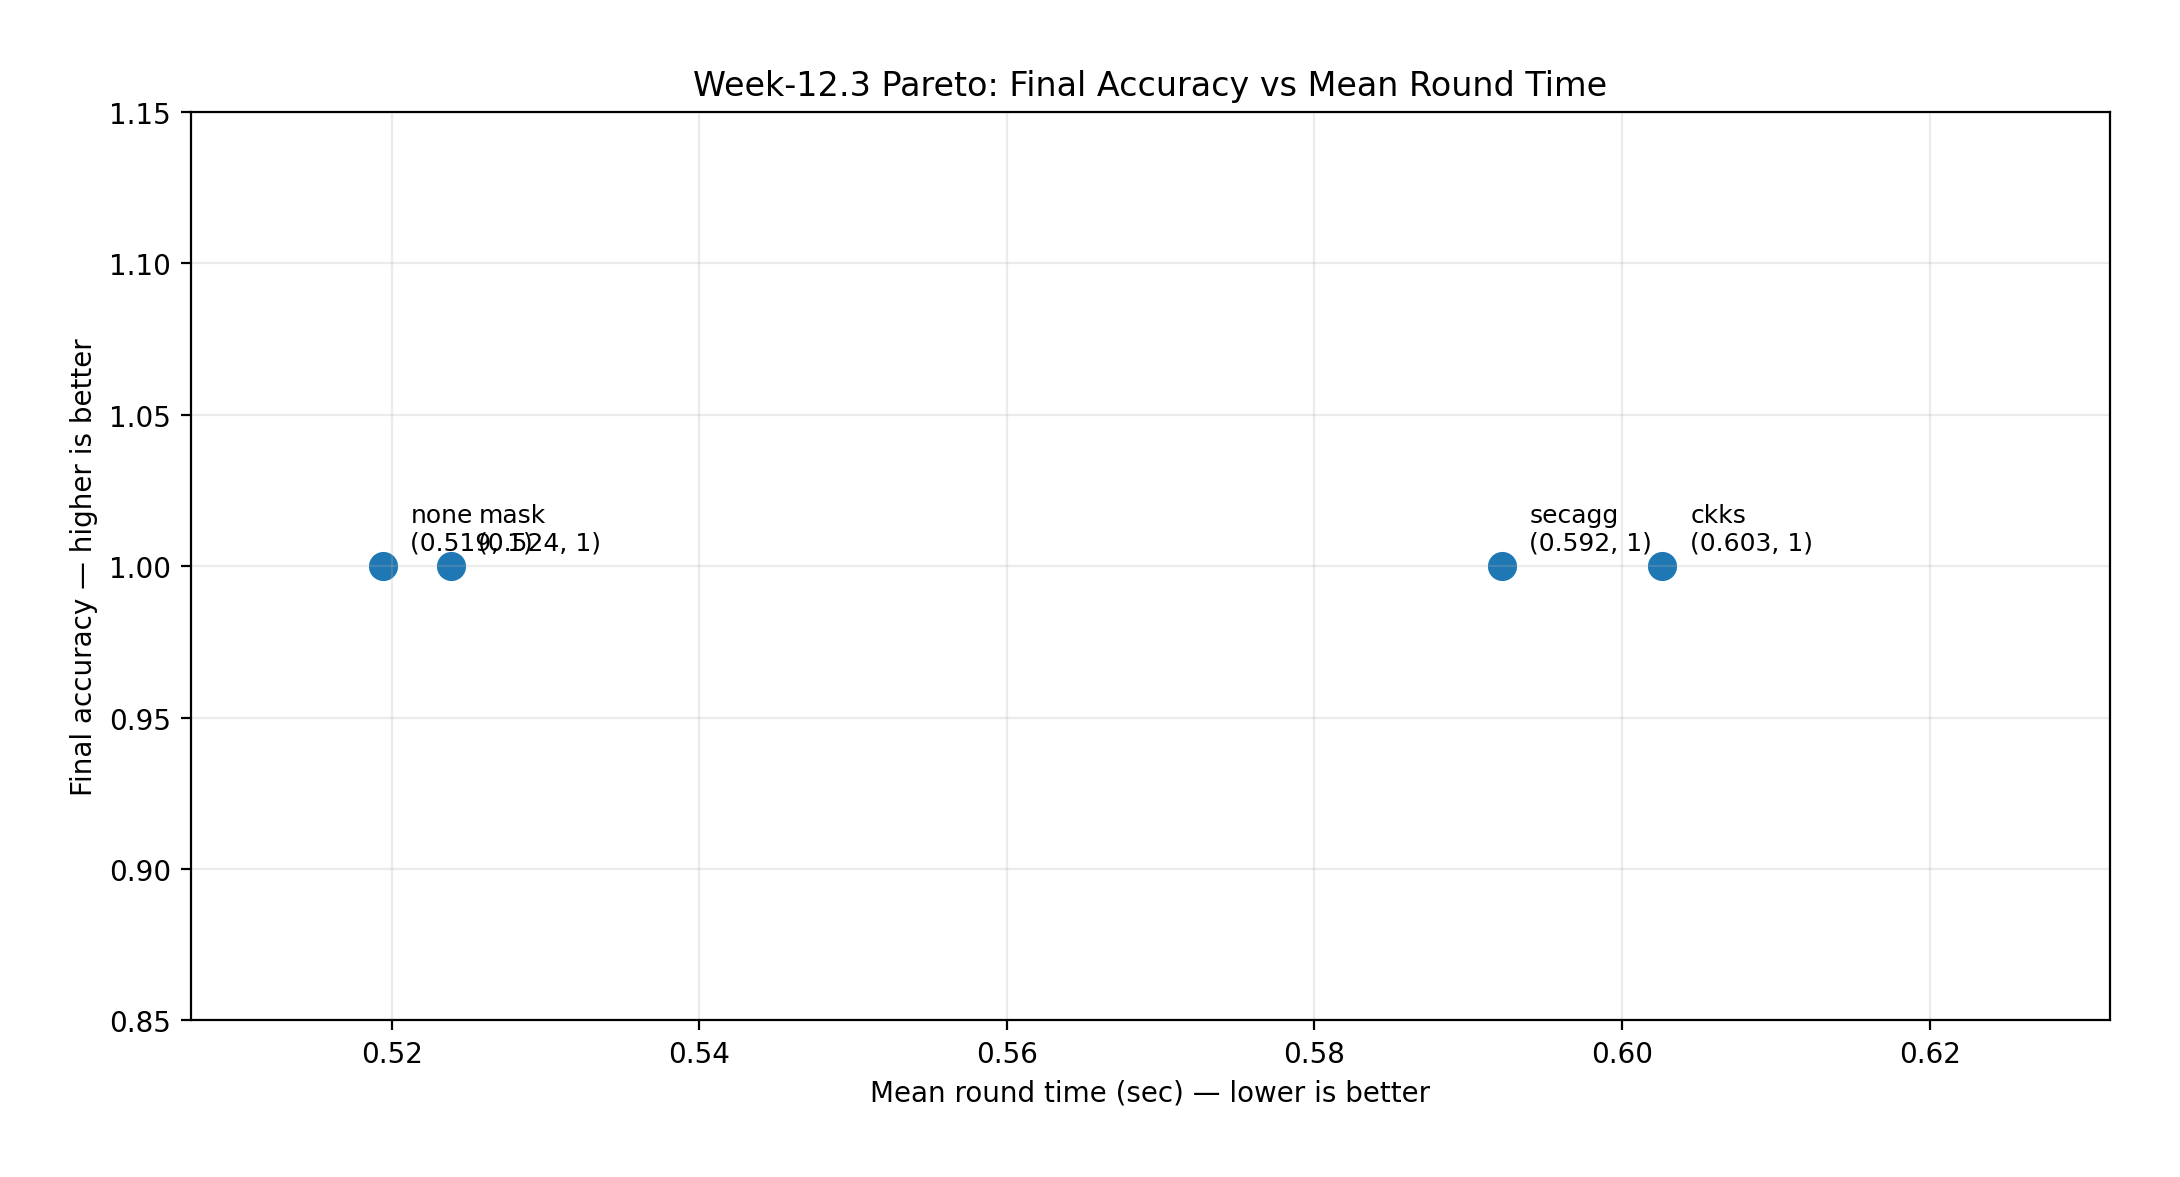
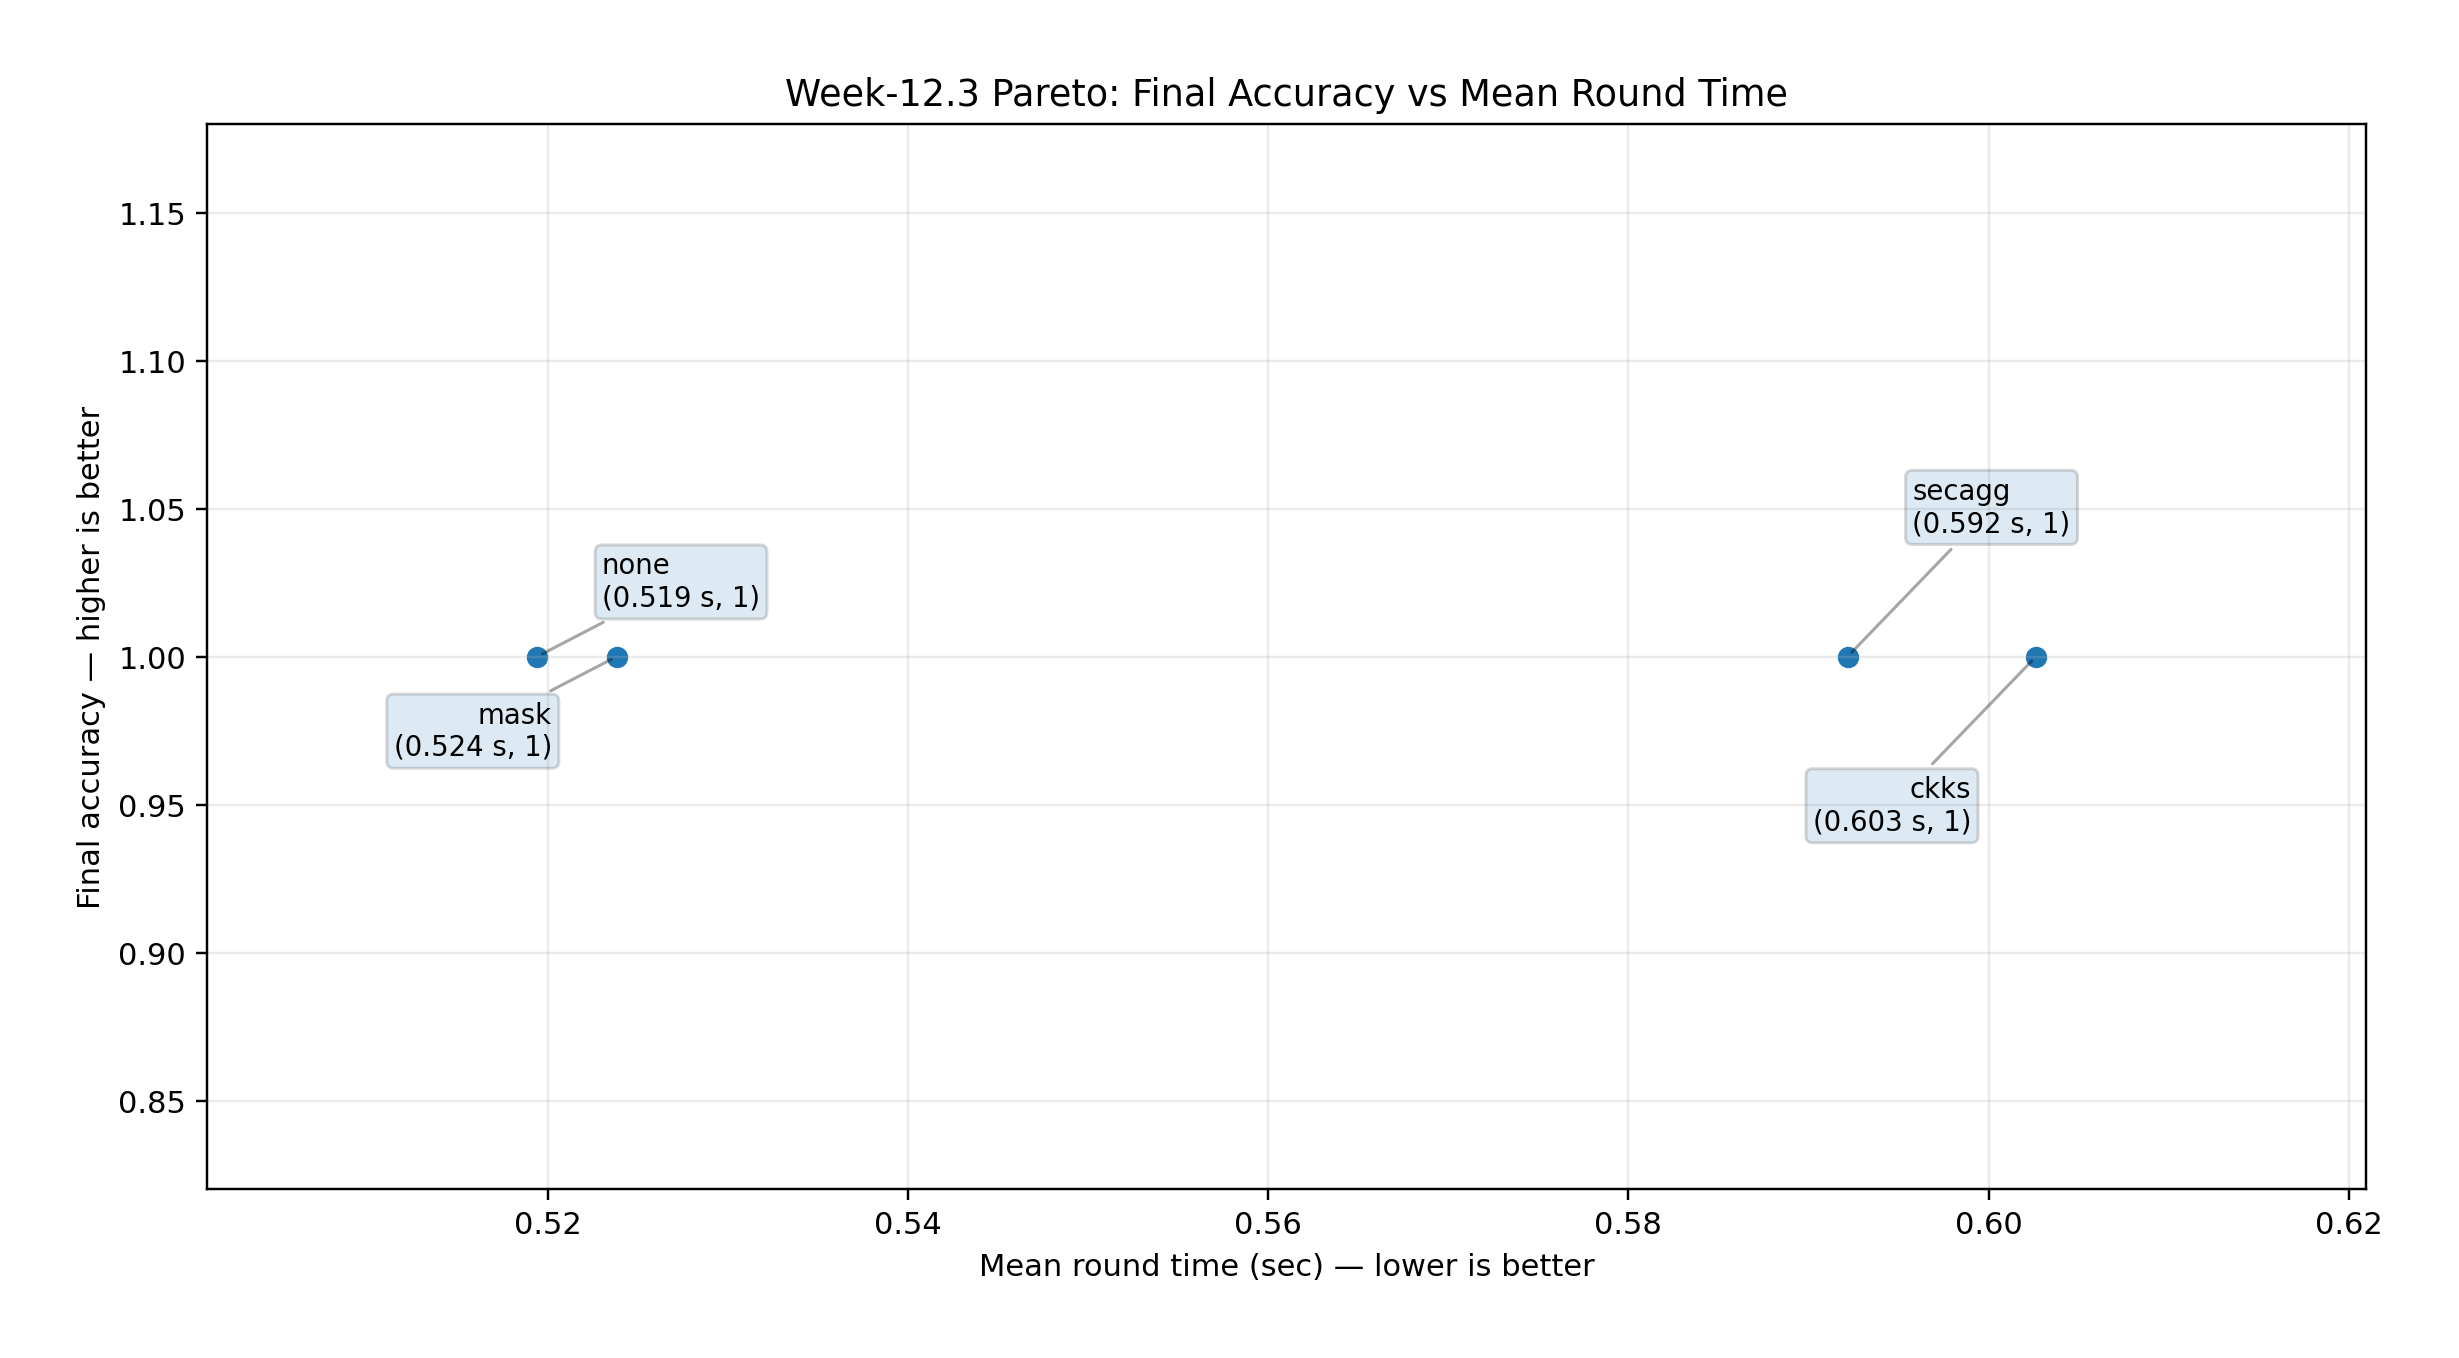
Fix Pareto label overlap and regenerate Week-12.3 utility plots

diff --git a/experiments/run_week12_3_utility_tradeoffs_summary.py b/experiments/run_week12_3_utility_tradeoffs_summary.py
@@ -357,31 +357,99 @@ def plot_pareto_scatter(
     plt.title(title)
     plt.grid(True, alpha=0.25)
 
-    # Anti-overlap labeling:
-    # Use deterministic offsets by mode index and add arrows when close.
-    offsets = [(12, 10), (12, -12), (-58, 10), (-58, -12)]
-    for i, (xi, yi, lab) in enumerate(zip(x, y, labels)):
-        dx, dy = offsets[i % len(offsets)]
-        text = lab
-        if show_xy:
-            # Format x nicely if it looks like bytes
-            if "comm" in xcol.lower() or "bytes" in xcol.lower():
-                xfmt = f"{xi:.2e}"
+    # ------------------------------------------------------------
+    # Label placement (robust for "final_acc is flat" plots)
+    # ------------------------------------------------------------
+    def _fmt_x(val: float) -> str:
+        if "comm" in xcol.lower() or "bytes" in xcol.lower():
+            return f"{val/1e3:.1f} KB"
+        return f"{val:.3f}"
+
+    def _fmt_y(val: float) -> str:
+        return f"{val:.4f}".rstrip("0").rstrip(".")
+
+    ax = plt.gca()
+    order = np.argsort(x)
+
+    y_span = float(np.nanmax(y) - np.nanmin(y))
+    flat_y = ("final_acc" in ycol.lower()) or (y_span < 1e-6)
+
+    if flat_y:
+        # When y is (almost) constant, pixel offsets still collide.
+        # So we place label text in DATA coordinates with vertical jitter
+        # based on current axis height -> guaranteed separation.
+        x_span_ax = float(xmax - xmin) if xmax != xmin else 1.0
+        y_span_ax = float(ymax - ymin) if ymax != ymin else 1.0
+
+        # Deterministic “stacking” pattern
+        dy_pattern = [1, -1, 2, -2]
+        for k, idx in enumerate(order):
+            xi, yi, lab = x[idx], y[idx], labels[idx]
+
+            # shorter text for the flat case = cleaner and avoids overlap
+            if show_xy:
+                text = f"{lab}\n({_fmt_x(xi)} s, {_fmt_y(yi)})" if "time" in xcol.lower() else f"{lab}\n({_fmt_x(xi)}, {_fmt_y(yi)})"
             else:
-                xfmt = f"{xi:.3f}"
-            text = f"{lab}\n({xfmt}, {yi:.4f})"
-        plt.annotate(
-            text,
-            xy=(xi, yi),
-            xytext=(dx, dy),
-            textcoords="offset points",
-            ha="left",
-            va="bottom",
-            fontsize=9,
-            arrowprops=dict(arrowstyle="-", alpha=0.4),
-        )
+                text = lab
+
+            # small horizontal shift (data units) + stronger vertical jitter (data units)
+            dx_data = (0.03 * x_span_ax) * (1 if (k % 2 == 0) else -1)
+            dy_data = (0.07 * y_span_ax) * dy_pattern[k % len(dy_pattern)]
+
+            x_text = xi + dx_data
+            y_text = yi + dy_data
+
+            plt.annotate(
+                text,
+                xy=(xi, yi),
+                xytext=(x_text, y_text),
+                textcoords="data",
+                ha="left" if dx_data > 0 else "right",
+                va="center",
+                fontsize=9,
+                bbox=dict(boxstyle="round,pad=0.25", alpha=0.15),
+                arrowprops=dict(arrowstyle="-", alpha=0.35),
+            )
+    else:
+        # Normal case: light repel in display coords
+        placed = []
+        for k, idx in enumerate(order):
+            xi, yi, lab = x[idx], y[idx], labels[idx]
+
+            text = lab
+            if show_xy:
+                text = f"{lab} ({_fmt_x(xi)}, {_fmt_y(yi)})"
+
+            # base offsets (points)
+            dx = 14 if (k % 2 == 0) else -80
+            dy = 16 if (k % 3 != 0) else -16
+
+            # display coords for collision checks
+            x_disp, y_disp = ax.transData.transform((xi, yi))
+
+            push = 0
+            for (px, py) in placed:
+                if abs((x_disp + dx) - px) < 85 and abs((y_disp + dy) - py) < 22:
+                    push += 22
+
+            dy = dy + push if dy >= 0 else dy - push
+            placed.append((x_disp + dx, y_disp + dy))
+
+            plt.annotate(
+                text,
+                xy=(xi, yi),
+                xytext=(dx, dy),
+                textcoords="offset points",
+                ha="left",
+                va="center",
+                fontsize=9,
+                bbox=dict(boxstyle="round,pad=0.25", alpha=0.15),
+                arrowprops=dict(arrowstyle="-", alpha=0.35),
+            )
 
     _save_fig(out)
+
+
 
 
 # ------------------------------------------------------------
@@ -591,33 +659,34 @@ def main() -> None:
         show_xy=True,
     )
 
-    # Optional: final_acc Pareto ONLY if it varies (otherwise it’s misleading noise)
+    # Final-acc Pareto (ALWAYS generate for the report, even if saturated)
     finite_final = df["final_acc"].to_numpy(dtype=float)
     finite_final = finite_final[np.isfinite(finite_final)]
-    if len(finite_final) >= 2 and (float(np.max(finite_final)) - float(np.min(finite_final))) > FINAL_ACC_FLAT_EPS:
-        plot_pareto_scatter(
-            df=df,
-            xcol="mean_round_time",
-            ycol="final_acc",
-            out=RESULTS_DIR / "week12_3_pareto_finalacc_vs_time.png",
-            title="Week-12.3 Pareto: Final Accuracy vs Mean Round Time",
-            xlabel="Mean round time (sec) — lower is better",
-            ylabel="Final accuracy — higher is better",
-            show_xy=True,
-        )
+    if len(finite_final) >= 2 and (float(np.max(finite_final)) - float(np.min(finite_final))) <= FINAL_ACC_FLAT_EPS:
+        print("[Week-12.3] NOTE: final_acc is saturated/flat across modes -> plot will show overlap (handled by label stacking).")
 
-        plot_pareto_scatter(
-            df=df,
-            xcol="mean_total_comm",
-            ycol="final_acc",
-            out=RESULTS_DIR / "week12_3_pareto_finalacc_vs_comm.png",
-            title="Week-12.3 Pareto: Final Accuracy vs Mean Total Communication",
-            xlabel="Mean total comm per round (bytes_up + bytes_down) — lower is better",
-            ylabel="Final accuracy — higher is better",
-            show_xy=True,
-        )
-    else:
-        print("[Week-12.3] NOTE: final_acc is saturated/flat across modes -> skipping final_acc Pareto plots.")
+    plot_pareto_scatter(
+        df=df,
+        xcol="mean_round_time",
+        ycol="final_acc",
+        out=RESULTS_DIR / "week12_3_pareto_finalacc_vs_time.png",
+        title="Week-12.3 Pareto: Final Accuracy vs Mean Round Time",
+        xlabel="Mean round time (sec) — lower is better",
+        ylabel="Final accuracy — higher is better",
+        show_xy=True,
+    )
+
+    plot_pareto_scatter(
+        df=df,
+        xcol="mean_total_comm",
+        ycol="final_acc",
+        out=RESULTS_DIR / "week12_3_pareto_finalacc_vs_comm.png",
+        title="Week-12.3 Pareto: Final Accuracy vs Mean Total Communication",
+        xlabel="Mean total comm per round (bytes_up + bytes_down) — lower is better",
+        ylabel="Final accuracy — higher is better",
+        show_xy=True,
+    )
+
 
     # --------------------------
     # Heatmap (normalized + raw)
